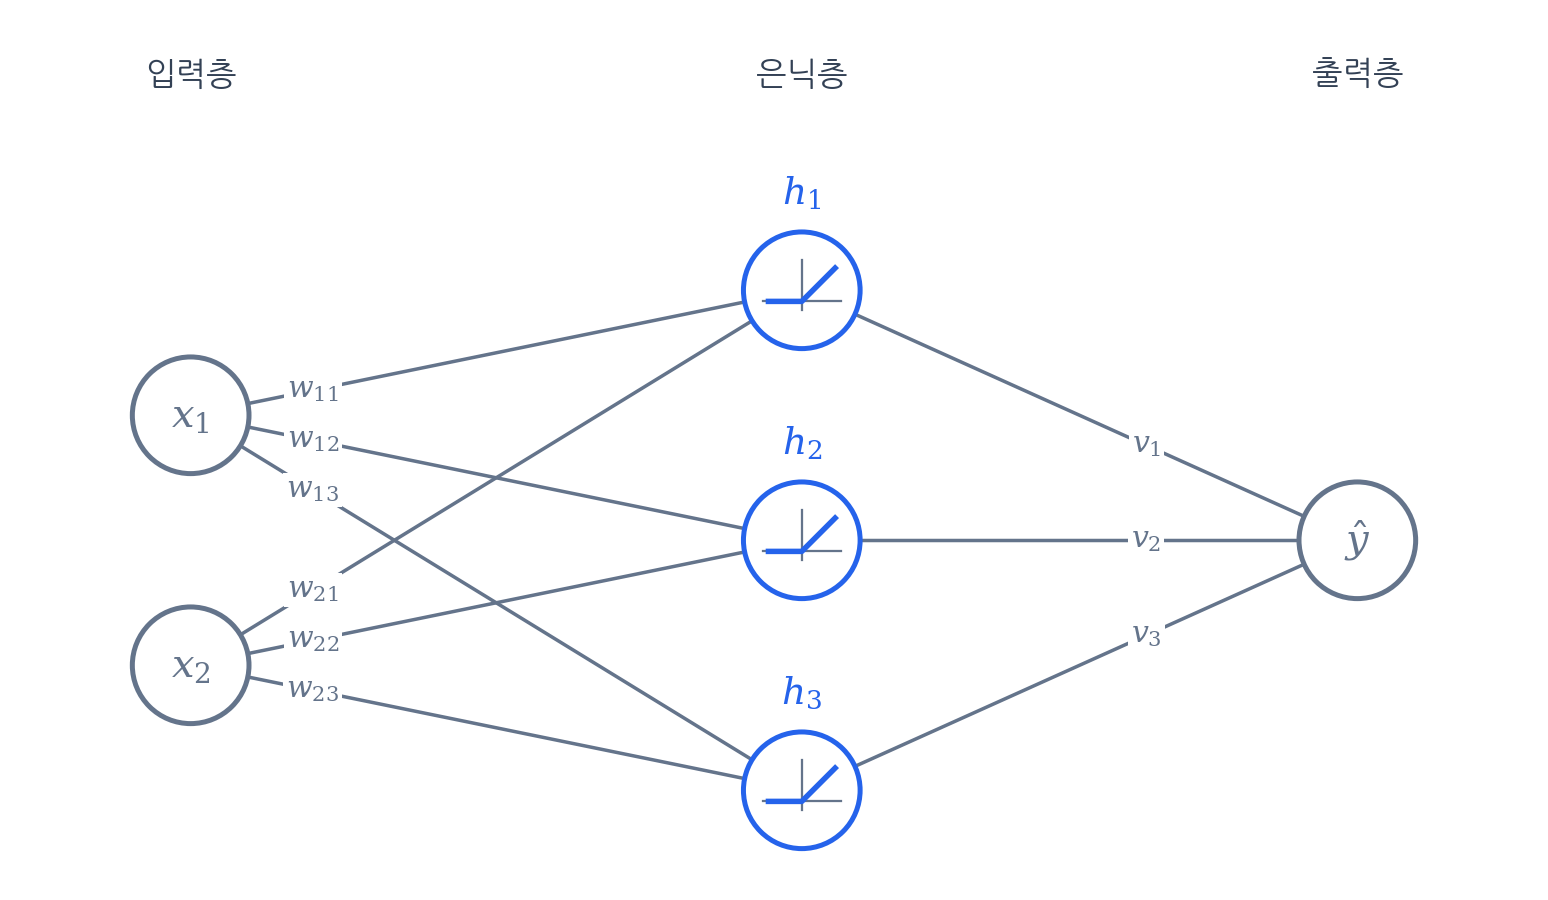
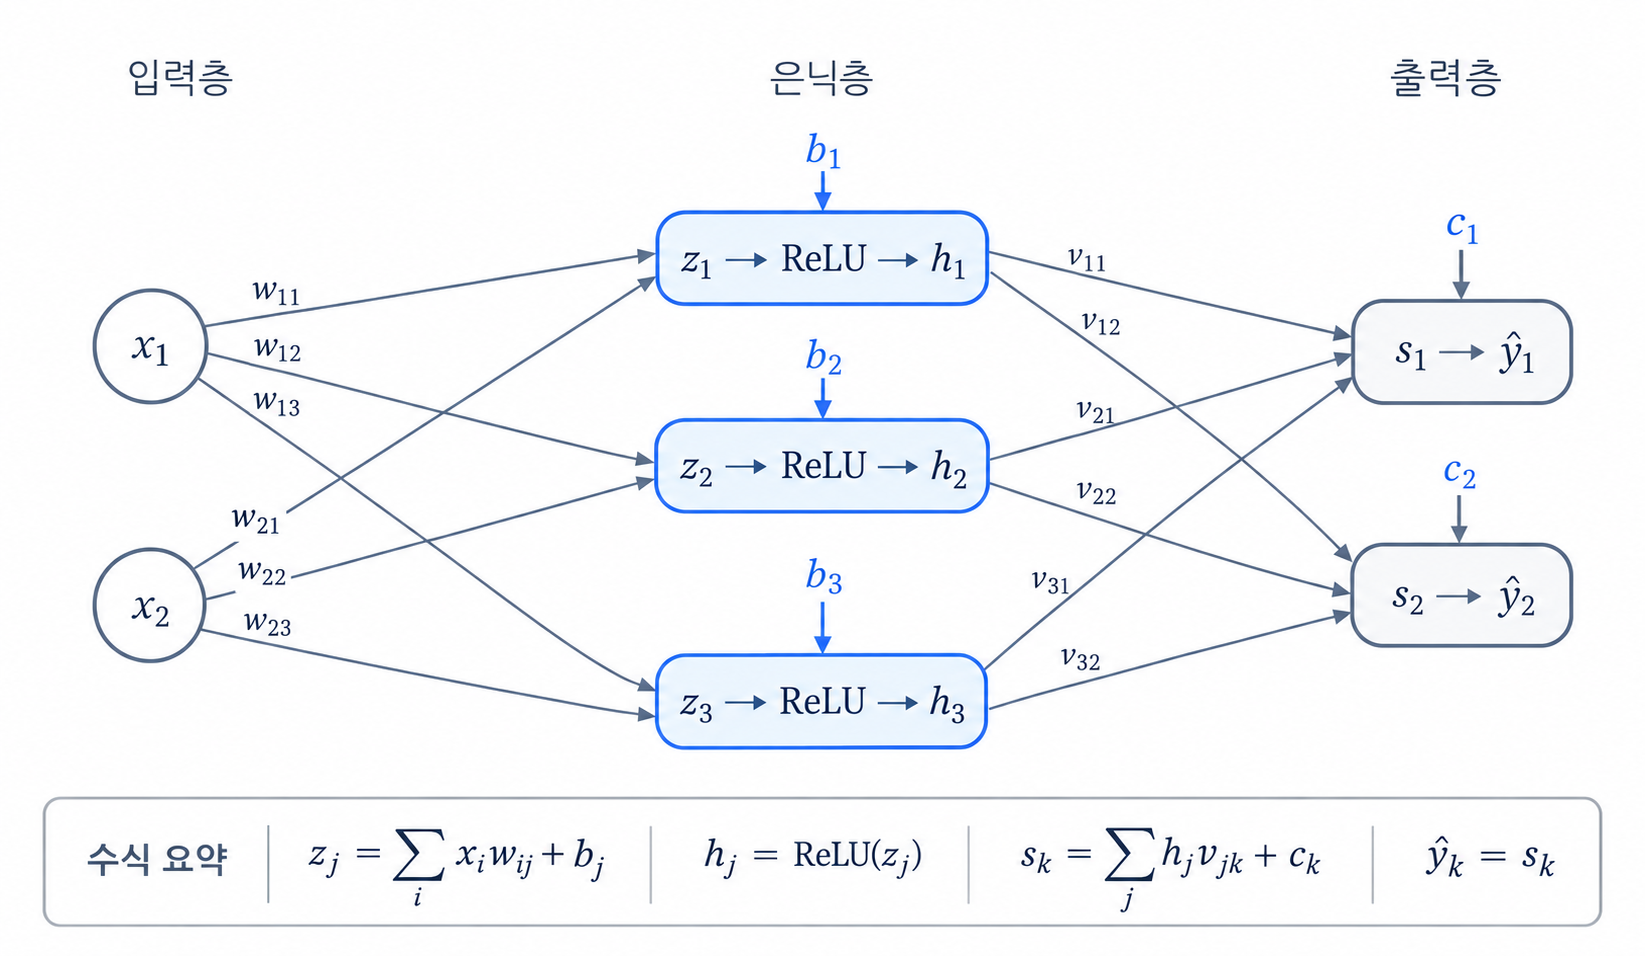
Update backpropagation diagram with two outputs and node symbols

diff --git a/site/src/content/notes/Machine Learning｜Deep Learning/deeplearning_04.md b/site/src/content/notes/Machine Learning｜Deep Learning/deeplearning_04.md
@@ -23,9 +23,11 @@ featured: false
 
 ## 예측값과 손실 계산하기
 
-아래 신경망에서 입력 $x_1$, $x_2$로 예측값 $\hat y$를 계산해 보겠습니다.
+아래 그림은 입력 두 개, 은닉 노드 세 개, 출력 두 개로 구성한 신경망입니다. $z_j$와 $s_k$는 각 노드의 가중합, $h_j$와 $\hat y_k$는 출력값입니다. 가중치의 첫 첨자는 출발 노드, 둘째 첨자는 도착 노드를 뜻합니다.
 
-<img src="../../../../public/images/notes/backpropagation/example-network.png" alt="입력 x1, x2가 가중치 w11~w23의 선으로 은닉 노드 h1~h3에 연결되고, 은닉 노드가 가중치 v1~v3의 선으로 예측 y-hat에 연결되는 예시 신경망" width="640" loading="lazy" />
+이후 계산은 출력 하나만 둔 경우로 단순화해 $v_{j1}$을 $v_j$, $c_1$을 $b_{\mathrm{out}}$, $\hat y_1$을 $\hat y$로 씁니다.
+
+<img src="../../../../public/images/notes/backpropagation/example-network.png" alt="입력 x1·x2, 은닉 노드 세 개와 출력 노드 두 개를 연결한 신경망. 각 연결의 가중치 wij·vjk, 편향 bj·ck, 은닉층 가중합 zj와 출력 hj, 출력층 가중합 sk와 예측값 y-hat-k를 표시한다." width="960" loading="lazy" />
 
 은닉 노드는 입력을 가중치로 합한 $z_j$에 ReLU를 씌워 $h_j$를 냅니다. 출력 노드는 $h_j$를 다시 가중치로 합해 $\hat y$를 냅니다.
 
